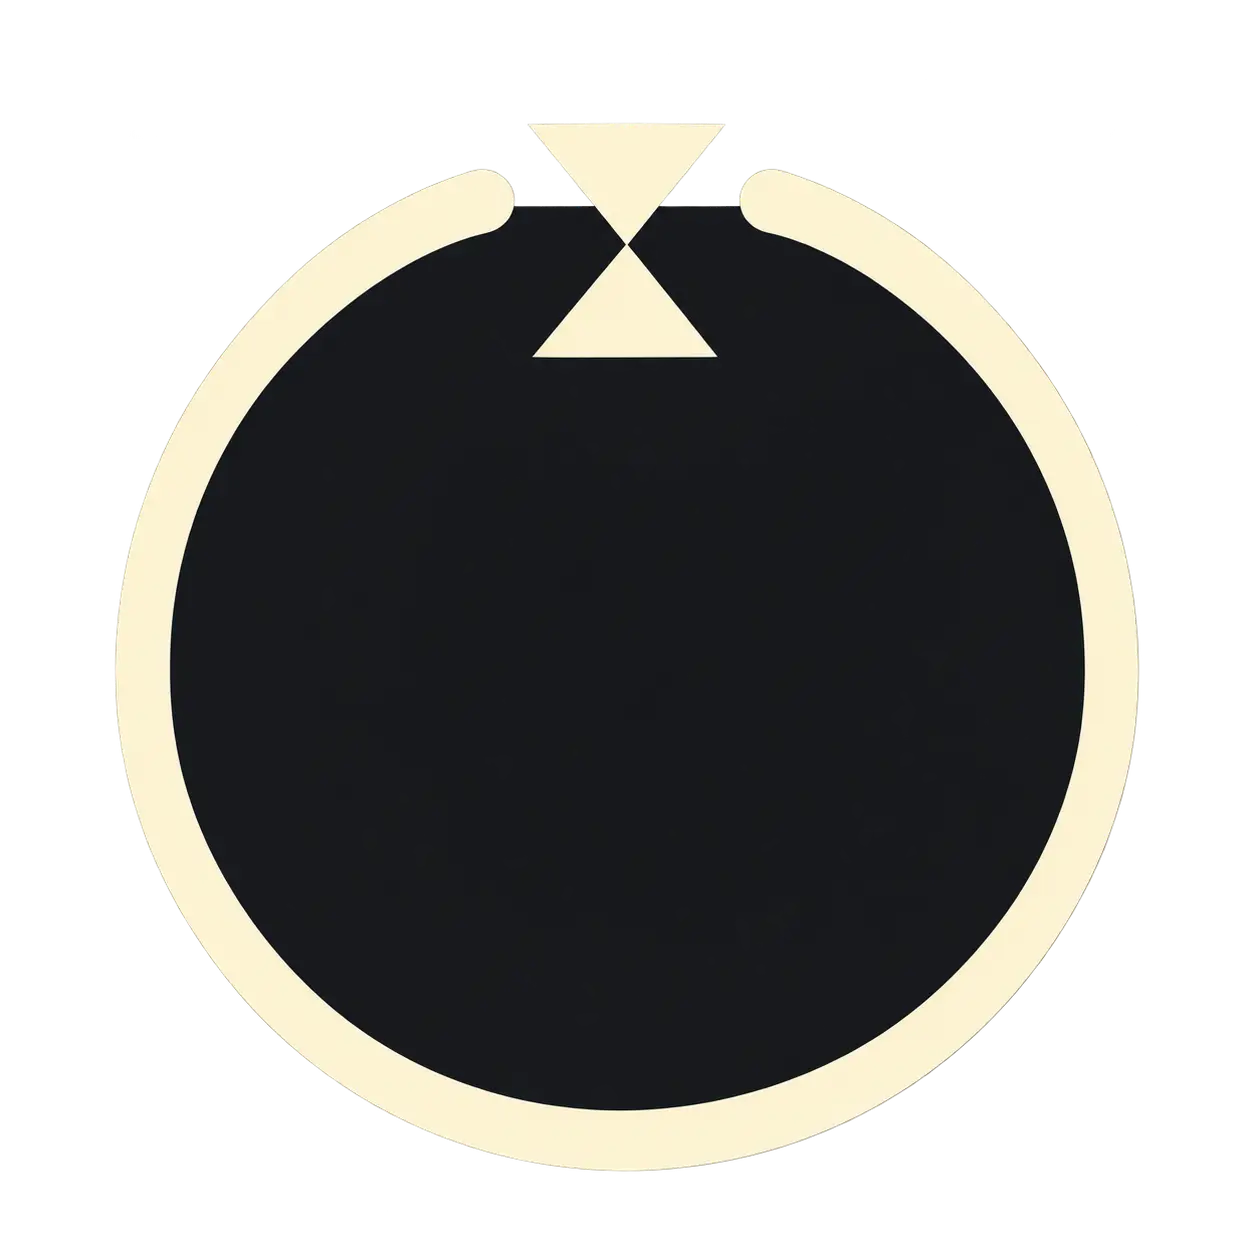
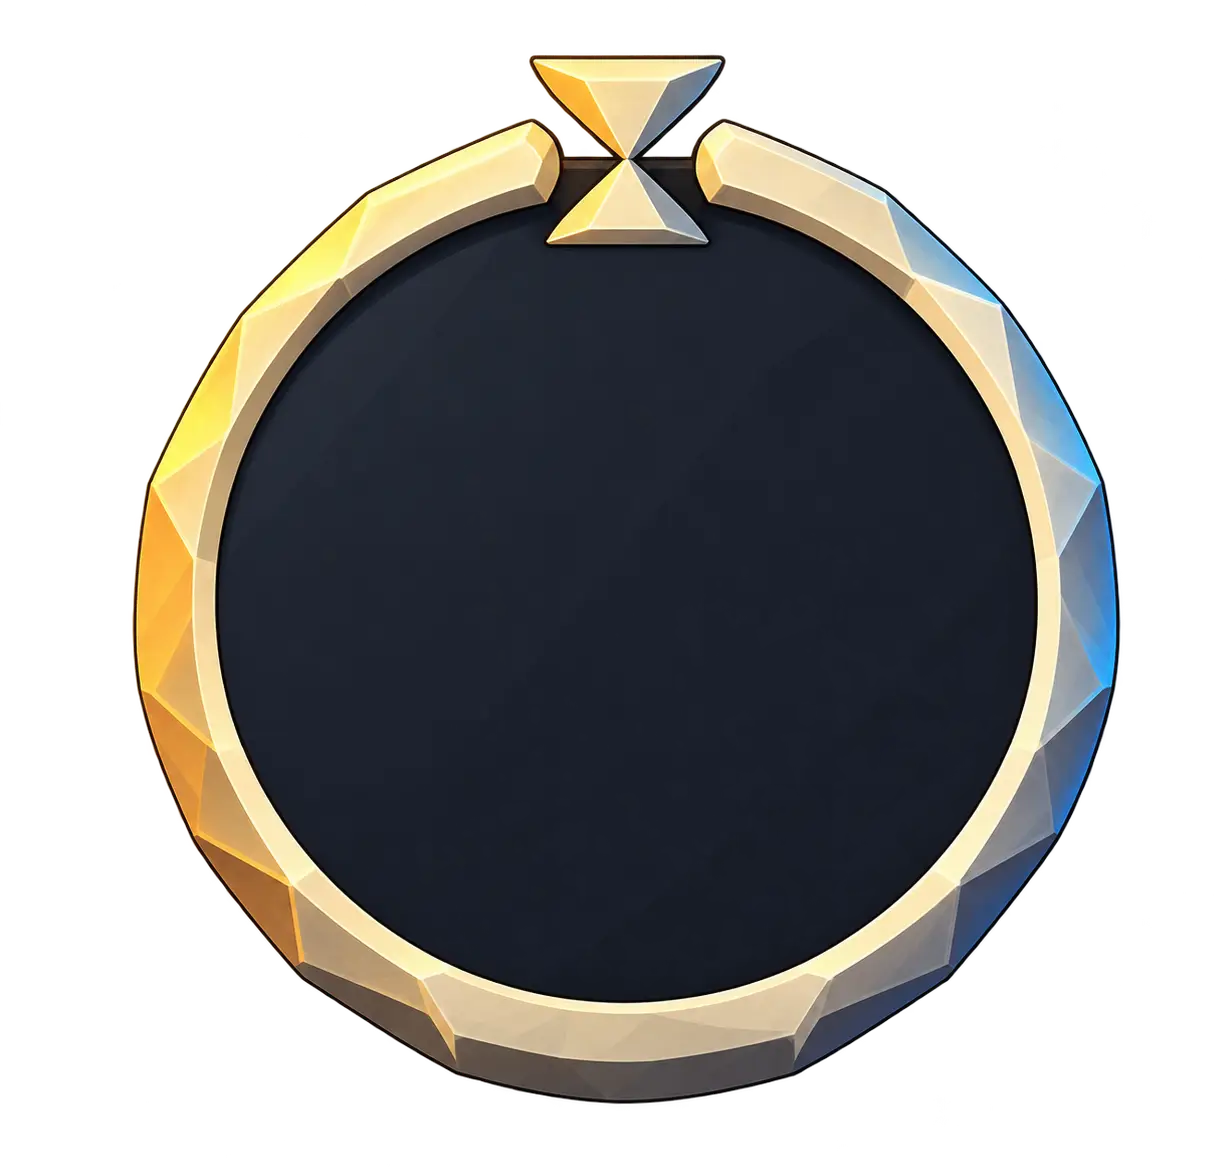
Le symbole des PA se pose en contain, plus dans un carre impose
Cost.webp mis a jour par Keko : il passe de 1254 x 1254 a 1226 x 1167, donc
il n'est plus carre. Le drawImage le forcait dans une boite carree, ce qui
l'aurait comprime de 5 % en largeur -- le disque serait devenu un ovale, sans
qu'aucune erreur ne le dise.

C'est deja ce que fait l'orbe du joueur (object-fit: contain) : un seul
fichier, trois endroits, et ils ne peuvent plus se poser de trois facons.
Contain borne ici la LARGEUR, donc le diametre du disque ne bouge pas (80,7 %
de la largeur contre 81,7 % avant, mesure sur l'alpha) et les reglages de
centrage du chiffre tiennent sans retouche.

Claude-Session: https://claude.ai/code/session_01KZ9nCsdAx7LsxofMKnUAi4

Changed region(s): [[0.093, 0.0308, 0.9299, 0.9563]]

diff --git a/src/render/texture-carte.ts b/src/render/texture-carte.ts
@@ -1070,6 +1070,23 @@ function fondTeinte(ciel: Ciel): Promise<HTMLImageElement | HTMLCanvasElement | 
  *
  * Si un navigateur ignorait `imageSmoothingQuality`, il retomberait sur la
  * qualité basse — l'état d'avant, pas pire.
+ *
+ * **ET IL SE POSE EN `contain`, JAMAIS DANS UN CARRÉ IMPOSÉ.** Le fichier a
+ * d'abord été carré (1254 x 1254), donc l'étirer dans une boîte carrée ne se
+ * voyait pas ; la mise à jour de Keko fait 1226 x 1167, et le même code
+ * l'aurait **comprimée de 5 % en largeur** — le disque serait devenu un ovale,
+ * sans qu'aucune erreur ne le dise. *Une image dessinée par Keko se pose comme
+ * il l'a dessinée* : on lit le rapport de ce qu'on a vraiment chargé, la règle
+ * déjà payée sur les créatures et sur le dos de carte.
+ *
+ * **Et c'est EXACTEMENT ce que fait le `<img>` de l'orbe du joueur**
+ * (`object-fit: contain`), ce qui est tout l'intérêt : *un seul fichier, trois
+ * endroits, et ils ne peuvent pas se poser de trois façons.*
+ *
+ * *Ce que `contain` borne ici est la LARGEUR*, puisque le dessin est plus large
+ * que haut — donc **le diamètre du disque ne bouge pas** (80,7 % de la largeur
+ * contre 81,7 % avant, mesuré), et les réglages validés par Keko sur le chiffre
+ * qu'il contient tiennent sans retouche.
  */
 function poserSymbole(
   ctx: CanvasRenderingContext2D,
@@ -1079,7 +1096,10 @@ function poserSymbole(
   taille: number,
 ): void {
   ctx.imageSmoothingQuality = 'high'
-  ctx.drawImage(image, x, y, taille, taille)
+  const echelle = Math.min(taille / image.width, taille / image.height)
+  const l = image.width * echelle
+  const h = image.height * echelle
+  ctx.drawImage(image, x + (taille - l) / 2, y + (taille - h) / 2, l, h)
 }
 
 /** Le symbole du coût, chargé une fois lui aussi. */

diff --git a/CLAUDE.md b/CLAUDE.md
@@ -8249,6 +8249,25 @@ main :
 c'est la mesure qui l'a dit, pas l'oeil : les deux versions se ressemblent sur
 une capture.
 
+**ET ELLE SE POSE EN `contain`, JAMAIS DANS UN CARRÉ IMPOSÉ.** Le fichier a
+d'abord été CARRÉ (1254 x 1254), donc l'étirer dans une boîte carrée ne se
+voyait pas ; la mise à jour de Keko fait **1226 x 1167**, et le même code
+l'aurait **comprimée de 5 % en largeur** — le disque serait devenu un ovale,
+*sans qu'aucune erreur ne le dise.* **Une supposition sur un fichier cesse
+d'être vraie le jour où le fichier change**, et c'est la cinquième fois que
+cette règle se paie (l'intention du Cultiste, les repères des gobelins, le
+cadrage du Fossoyeur, le dos de carte).
+
+**Et c'est exactement ce que fait déjà le `<img>` de l'orbe du joueur**
+(`object-fit: contain`) : *un seul fichier, trois endroits, et ils ne peuvent
+plus se poser de trois façons.*
+
+*Ce que `contain` borne ici est la LARGEUR*, puisque le dessin est plus large
+que haut — donc **le diamètre du disque ne bouge pas** : 80,7 % de la largeur
+contre 81,7 % avant, mesuré sur l'alpha. Les réglages validés par Keko sur le
+chiffre qu'il contient tiennent donc sans retouche, y compris le rapport de
+1,86 de la bande de stats et les deux corrections de centrage.
+
 **Keko a choisi l'ORBE** : « essayons l'orbe, mais il faudrait une orbe sur les
 cartes, puis le même symbole avec X/X dans l'interface de combat ». C'est la
 règle prise au mot — le joueur voit le même objet sur sa carte et dans son coin
